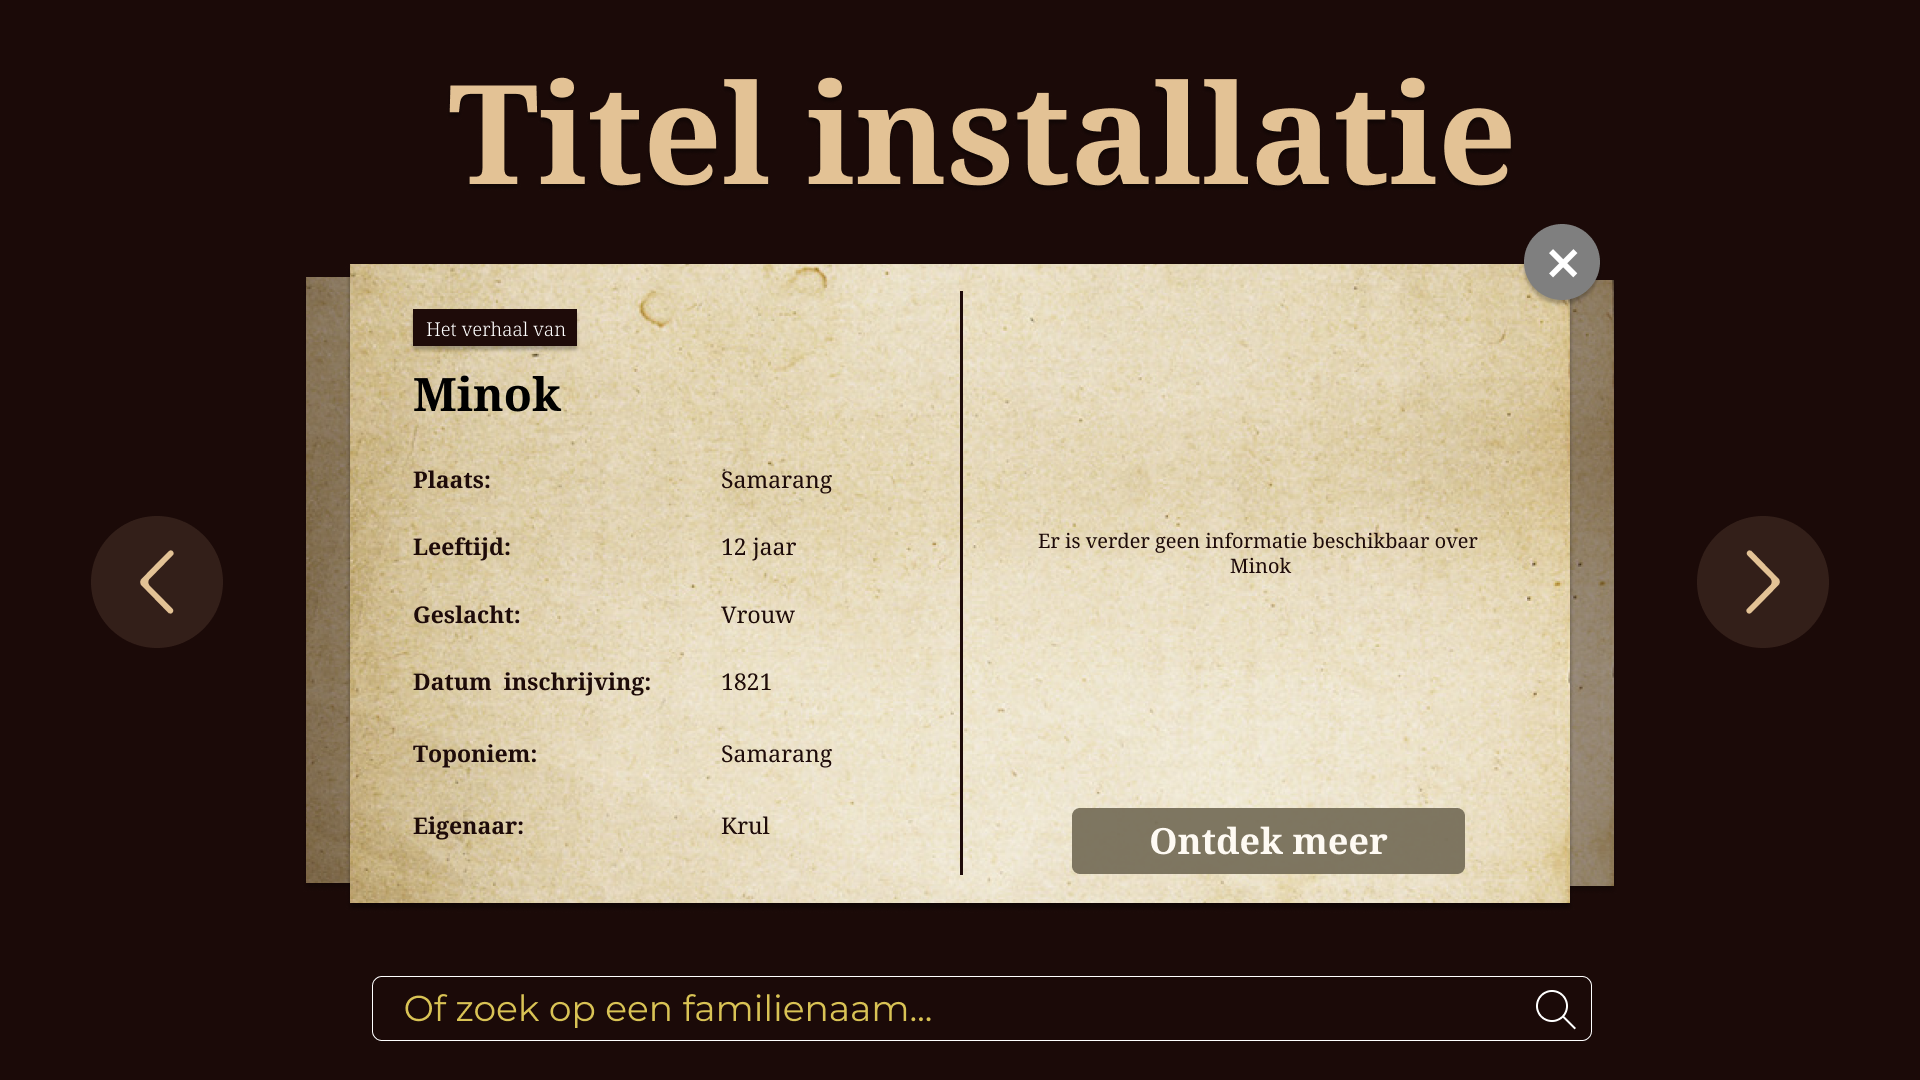
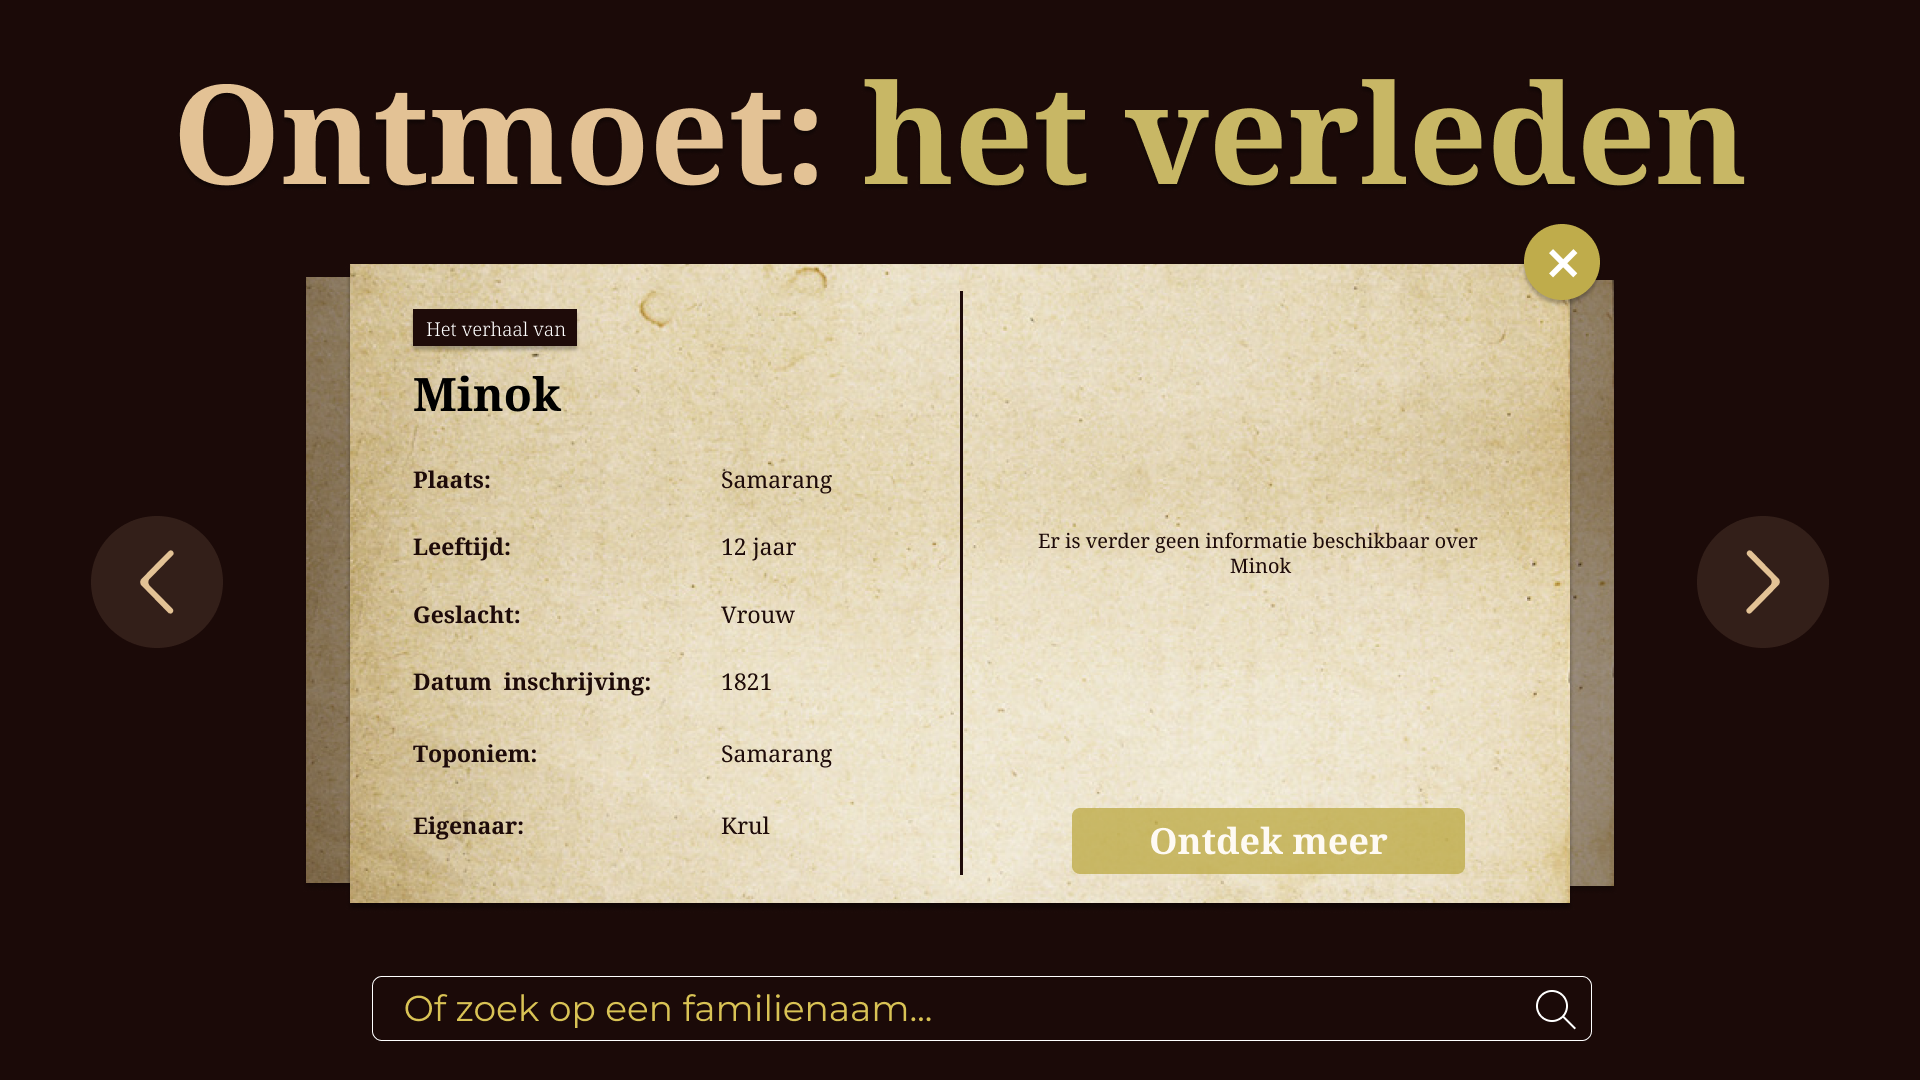
update text

Changed region(s): [[0.0938, 0.0611, 0.9062, 0.1833], [0.5312, 0.7333, 0.7812, 0.825], [0.7812, 0.2139, 0.8438, 0.275]]

diff --git a/components/home/homever2.jsx b/components/home/homever2.jsx
@@ -8,7 +8,7 @@ const Index2 = () => (
     {/* Titel en namen */}
     <div className="relative text-white h-128 w-full bg-contain bg-right bg-no-repeat bg-project-donker bg-bottom bg-[url('/topbannerstatic.png')]">
       <h1 className="uppercase text-tropen-rood bg-white p-2 left-14 bottom-28 absolute text-4xl text-center font-bold">
-        Namenmonument tropenmuseum
+        Ontmoet: het verleden
       </h1>
       <p className="text-white p-2 bg-tropen-rood left-14 bottom-14 absolute text-center font-medium">
         Lisa Roelvink - Aaron Smits - Bas de Roller
@@ -17,22 +17,42 @@ const Index2 = () => (
 
     {/* Intro project en uitleg */}
     <div className="w-full mt-4 flex">
-      <div className="w-6/12 p-14 bg-tropen-rood">
-        <h3 className="text-2xl text-white font-medium pb-5">
-          Introductie titel
-        </h3>
+      <div className="w-7/12 p-14 bg-tropen-rood">
+        <h3 className="text-2xl text-white font-medium pb-5">Het project</h3>
         <p className="text-white">
-          Lorem ipsum dolor sit amet, consectetur adipiscing elit, sed do
-          eiusmod tempor incididunt ut labore et dolore magna aliqua. Ut enim ad
-          minim veniam, quis nostrud exercitation ullamco laboris nisi ut
-          aliquip ex ea commodo consequat. Duis aute irure dolor in
-          reprehenderit in voluptate velit esse cillum dolore eu fugiat nulla
-          pariatur. Excepteur sint occaecat cupidatat non proident, sunt in
-          culpa qui officia deserunt mollit anim id est laborum.
+          Het tropenmuseum vindt het belangrijk dat bezoekers van het museum
+          meer ontdekken over diverse culturen van de wereld en de menselijke
+          kwaliteiten daarvan. Het tropen museum wil ook bezoekers een
+          openbaring geven over delen van onze geschiedenis en leven waar niet
+          vaak over wordt gepraat.
+          <br />
+          <br />
+          Een tentoonstelling die binnenkort gaat plaatsnemen bij het museum is
+          een over het slaven verleden van de VOC handel, specifiek gaat het
+          over alle mensen uit indonesie die tijdens deze periode tot slaaf zijn
+          gemaakt en wat voor effect dat had op hun geschiedenis.
+          <br />
+          <br />
+          Het tropenmuseum heeft aan ons gevraagd of wij een unieke interactieve
+          ervaring kunnen creeren waarin bezoekers de geschiedenis van deze
+          slaven kunnen bekijken en een openbaring krijgen over de impact die
+          dit had op andere mensen.
+          <br />
+          <br />
+          Voor dit project kregen wij als basis 2 databases over alle slaaf
+          gemaakte mensen waar informatie bekend van was, gecombineerd was dit
+          ongeveer 165,000, terwijl het aantal geschatten tot slaaf gemaakten
+          van de voc 1,5 miljoen was.
+          <br />
+          <br />
+          Dus met deze databases moesten wij erachter komen hoe wij hieruit een
+          interactieve ervaring maken waarbij de gebruiker meer te weten kan
+          komen over het verleden en verbinden met tot slaaf gemaakte mensen van
+          vroeger.
         </p>
       </div>
-      <div className="w-6/12 pl-4">
-        <div className="mr-auto bg-project-donker">
+      <div className="self-center w-5/12 pl-4">
+        <div className="mr-auto">
           <Image
             className="w-24 drop-shadow-md"
             src="/Banner.png"
@@ -40,6 +60,14 @@ const Index2 = () => (
             width="1920"
             height="1080"
           />
+          <div className="align-bottom flex mt-2">
+            <Image
+              src="/Banner2.png"
+              alt="Picture of the author"
+              width="1920"
+              height="1080"
+            />
+          </div>
         </div>
       </div>
     </div>
@@ -72,29 +100,43 @@ const Index2 = () => (
     {/* project uitleg */}
     <div className="w-full mt-4 flex">
       <div className="w-2/3 m-auto">
-        <h2 className="text-2xl font-medium pb-4">Eindproduct</h2>
-        <p>
-          {" "}
-          Lorem ipsum dolor sit amet, consectetur adipiscing elit, sed do
-          eiusmod tempor incididunt ut labore et dolore magna aliqua. Ut enim ad
-          minim veniam, quis nostrud exercitation ullamco laboris nisi ut
-          aliquip ex ea commodo consequat. Duis aute irure dolor in
-          reprehenderit in voluptate velit esse cillum dolore eu fugiat nulla
-          pariatur. Excepteur sint occaecat cupidatat non proident, sunt in
-          culpa qui officia deserunt mollit anim id est laborum.
-        </p>
+        <div className="w-4/5 m-auto">
+          <h2 className="text-2xl font-medium pb-4">De oplossing</h2>
+          <p>
+            Wat wij uiteindelijk hebben gemaakt is Ontmoet: het verleden, een
+            interactieve museums ervaring waarbij de gebruiker het slaven
+            verleden van de voc kan ontdekken via persoonlijke verhalen van
+            mensen die tot slaaf gemaakt waren.
+            <br /> <br />
+            Met Ontmoet: het verleden kan je de persoonlijke informatie van tot
+            slaaf gemaakte mensen bekijken en de complete schaal van de slaven
+            handel van de voc bekijken door in-en-uit te zoomen, filteren en de
+            persoonlijke geschiedenis van deze mensen te lezen
+          </p>
 
-        <h2 className="text-2xl font-medium pb-4 mt-4">Uitleg 1</h2>
-        <p>
-          {" "}
-          Lorem ipsum dolor sit amet, consectetur adipiscing elit, sed do
-          eiusmod tempor incididunt ut labore et dolore magna aliqua. Ut enim ad
-          minim veniam, quis nostrud exercitation ullamco laboris nisi ut
-          aliquip ex ea commodo consequat. Duis aute irure dolor in
-          reprehenderit in voluptate velit esse cillum dolore eu fugiat nulla
-          pariatur. Excepteur sint occaecat cupidatat non proident, sunt in
-          culpa qui officia deserunt mollit anim id est laborum.
-        </p>
+          <h2 className="text-2xl font-medium py-4">De flow</h2>
+          <p>
+            Ontmoet: het verleden is een
+            <br />
+            <br />
+            Eerst begin je met een willekeurige naam te krijgen, hierdoor wordt
+            je verbonden met een tot slaaf gemaakte.
+            <br />
+            <br />
+            Over deze persoon lees je dan de informatie die ove hun beschikbaar
+            is, zoals hoe oud ze waren, wanneer ze ingeschreven waren, hun
+            sterfdatum, waare ze vandaan komen en andere informatie die relevant
+            is, er wordt alleen zoveel informatie getoondt als dat er
+            beschikbaar is van de persoon zelf, als er informatie mist wordt dat
+            duidelijk getoondt.
+            <br />
+            <br />
+            Vanuit hier kan de gebruiker gebaseerd op deze persoon verder
+            exploreren op filters waarbij ze interessante informatie kunne
+            ontdekken, bijvoorbeeld hou oud mensen uit zekere landen waren,
+            welke beroepen ze hadden en op welke datum ze waren in geschreven.
+          </p>
+        </div>
       </div>
       <div className="pl-4 w-2/5">
         {/* links */}

diff --git a/components/home/designGoals.jsx b/components/home/designGoals.jsx
@@ -8,49 +8,95 @@ const Index = () => (
     {/* Titel en namen */}
     <div className="relative text-white h-128 w-full bg-contain bg-project-donker bg-right bg-no-repeat bg-bottom bg-[url('/ButtonbannerGoals.png')]">
       <h1 className="uppercase text-tropen-rood bg-white p-2 left-24 bottom-36 absolute text-6xl text-center font-bold">
-        Design goals
+        Design goals en vragen
       </h1>
     </div>
 
     {/* Uitleg schermen */}
     <div className="w-full flex">
-      <div className="w-4/5 m-auto">
+      <div className="w-4/5 m-auto my-8">
         {/* Stukje foto rechts */}
         <div className="w-2/3 m-auto pt-4">
-          <h2 className="text-2xl font-bold">• Doel 1</h2>
+          <h2 className="text-2xl font-bold">• Filteren</h2>
           <p className="mt-4">
             {" "}
-            Lorem ipsum dolor sit amet, consectetur adipiscing elit, sed do
-            eiusmod tempor incididunt ut labore et dolore magna aliqua. Ut enim
-            ad minim veniam, quis nostrud exercitation ullamco laboris nisi ut
-            aliquip ex ea commodo consequat. Duis aute irure dolor in
-            reprehenderit in voluptate velit esse cillum dolore eu fugiat nulla
-            pariatur. Excepteur sint occaecat cupidatat non proident, sunt in
-            culpa qui officia deserunt mollit anim id est laborum.
+            Omdat er zo veel data beschikbaar is moet er een manier zijn voor de
+            gebruiker om informatie op te zoeken die belangrijk is voor hun. Er
+            zijn vele kwaliteiten die aan elke persoon zijn gebonden die veel
+            informatie geven, daarom besloten wij dat deze informatie gebruikt
+            zou kunnen worden om te kunnen zoeken en filteren. Via het
+            filtersysteem kan de gebruiker op zekere kwaliteiten, zoals land van
+            herkomst, leeftijd, hun familie boom en andere filters sorteren.
           </p>
 
-          <h2 className="text-2xl font-bold pt-4">• Doel 2</h2>
+          <h2 className="text-2xl font-bold pt-4">• Van klein naar groot</h2>
           <p className="mt-4">
             {" "}
-            Lorem ipsum dolor sit amet, consectetur adipiscing elit, sed do
-            eiusmod tempor incididunt ut labore et dolore magna aliqua. Ut enim
-            ad minim veniam, quis nostrud exercitation ullamco laboris nisi ut
-            aliquip ex ea commodo consequat. Duis aute irure dolor in
-            reprehenderit in voluptate velit esse cillum dolore eu fugiat nulla
-            pariatur. Excepteur sint occaecat cupidatat non proident, sunt in
-            culpa qui officia deserunt mollit anim id est laborum.
+            Omdat er zo veel mensen in de tentoonstelling zijn moesten wij
+            erachter hoe wij een volledig beeld laten zien, niet alleen van de
+            mensen in de tentoonstelling maar alle mensen die tot slaaf gemaakt
+            waren. hierdoor bedachten wij eraan om elke persoon individueel af
+            te beelden met een simpele vorm, eerst dachten wij pixels maar
+            uiteindlijk zijn het abstracte iconen van mensen, om duidelijk te
+            maken dat het nog om mensen gaat.
+            <br />
+            <br />
+            De gebruiker kan in en uit zoomen, gedetaileerd bekijken hoe
+            iedereen heet of uitzoomen om een groot beeld te krijgen.
+            <br />
+            <br />
+            Als je steeds verder en verder uitzoomt worden uiteindelijk alle
+            indivuele mensen bij elkaar toegevoegd als een groep, deze groep
+            wordt dan vergeleken met de mensen in de database en dan vergeleken
+            met het totaal aantal mensen dat tot slaaf gemaakt was.
+            <br />
+            <br />
+            Bezoekers kunnen nu niet alleen persoonlijke verhalen bekijken van
+            andere maar e kunnen nu ook de complete schaal zien van geschiedenis
+            die niet meer bestaat.
           </p>
 
-          <h2 className="text-2xl font-bold pt-4">• Doel 3</h2>
+          <h2 className="text-2xl font-bold pt-4">• Persoonlijke verhalen</h2>
           <p className="mt-4">
-            {" "}
-            Lorem ipsum dolor sit amet, consectetur adipiscing elit, sed do
-            eiusmod tempor incididunt ut labore et dolore magna aliqua. Ut enim
-            ad minim veniam, quis nostrud exercitation ullamco laboris nisi ut
-            aliquip ex ea commodo consequat. Duis aute irure dolor in
-            reprehenderit in voluptate velit esse cillum dolore eu fugiat nulla
-            pariatur. Excepteur sint occaecat cupidatat non proident, sunt in
-            culpa qui officia deserunt mollit anim id est laborum.
+            In de database zitten enorm veel mensen, en als je te ver weg kijkt
+            dan lijken al deze mensen op data. Wij vonden het belangrijk dat de
+            gebruiker begrijpt dat dit niet alleen stukken data zijn maar echte
+            mensen die een geschiedenis hadden, daarom kan je van elke persoon
+            die in de tentoonstelling zit kort lezen wie ze waren en een kort
+            verhaal (als dat verhaal beshcikbaar is.) Alhoewel er niet van elke
+            persoon veel informatie beschikbaar is was het toch belangrijk voor
+            ons om te laten zien dat elke persoon wel een geschiedenis had.
+          </p>
+
+          <h2 className="text-2xl font-bold pt-4">
+            • Hoe zet je iedereen in beeld?
+          </h2>
+          <p className="mt-4">
+            Omdat de databases die wij gebruiken heel veel mensen bevatten en
+            wij zoveel mogelijk van hun willen afbeelden moesten wij een manier
+            bedenken hoe zoveel stukken informatie kunnen laten zien terwijl wij
+            nog steeds het geheel laten zien. Wij dachten dus eraan om beeld te
+            creeren dat de gebruiker 'bijna' alles kan zien, bijvoorbeeld door
+            elke individuele persoon af te beelden als 1 object, dit zou kunnen
+            als een vorm, abstracte tekening of als een pixel. Deze manier van
+            afbeelden werkt niet alleen om specifieke mensen te laten zien maar
+            ook het complete beeld van wat voor effect de slaven handel had op
+            de geschidenis van zoveel mensen.
+          </p>
+
+          <h2 className="text-2xl font-bold pt-4">
+            • Hoe geef je de emotionele impact?
+          </h2>
+          <p className="mt-4">
+            In het begin was dit al een onderdeel waar wij een oplossing voor
+            wouden bedenken, wij zijn vooral bezig met data maar achter die data
+            zit echte mensen. Alhoewel van sommige tot slaaf gemaakten er een
+            echt verhaal, is dit een heel kleine groep, terwijl wij willen dat
+            de bezoeker met elke tot slaaf gemaakte sympathie kan krijgen.
+            Daarom besloten wij ons te richten op de missende data. Het aantaal
+            slaaf gemaakte mensen bij onze databases is 165,000, maar het totaal
+            aantal tot slaaf gemaakte mensen is 1,5 miljoen. Als dit visueel
+            vergeleken wordt met elkaar kan dit een zeer grote impact hebben.
           </p>
         </div>
       </div>

diff --git a/components/home/style.jsx b/components/home/style.jsx
@@ -13,23 +13,66 @@ const Index = () => (
     </div>
 
     {/* Uitleg style */}
-    <div className="w-full">
+    <div className="w-full my-8">
       {/* kleuren */}
       <div className="w-full flex">
-        <div className="uppercase w-1/5 pb-16/100 mr-2 my-4 bg-project-donker">
+        <div className="font-bold uppercase w-1/5 pb-16/100 mr-2 my-4 bg-project-donker">
           <p className="text-white text-center">#1B0A08</p>
         </div>
-        <div className="uppercase w-1/5 pb-16/100 mx-2 my-4 bg-project-secondary">
-          <p>#F2EFE7</p>
+        <div className="font-bold uppercase w-1/5 pb-16/100 mx-2 my-4 bg-project-secondary">
+          <p className="text-center">#FEFAF3</p>
         </div>
-        <div className="uppercase w-1/5 pb-16/100 mx-2 my-4 bg-project-button">
-          <p>#978C58</p>
+        <div className="font-bold uppercase w-1/5 pb-16/100 mx-2 my-4 bg-project-button">
+          <p className="text-center">#BFAC4B</p>
         </div>
-        <div className="uppercase w-1/5 pb-16/100 mx-2 my-4 bg-project-button2">
-          <p>#331F19</p>
+        <div className="font-bold uppercase w-1/5 pb-16/100 mx-2 my-4 bg-project-button2">
+          <p className="text-white text-center">#331F19</p>
         </div>
-        <div className="uppercase w-1/5 pb-16/100 ml-2 my-4 bg-project-button3">
-          <p>#736B56</p>
+        <div className="font-bold uppercase w-1/5 pb-16/100 ml-2 my-4 bg-project-button3">
+          <p className="text-white text-center">#706C68</p>
+        </div>
+      </div>
+      <div className="w-4/5 m-auto my-8">
+        <div>
+          <div className="font-Koh text-6xl pb-4 font-bold flex w-full">
+            <p className="w-2/12">H1</p>
+            <p className="w-8/12">Koh Santepheap bold</p>
+            <p className="w-2/12">120px</p>
+          </div>
+        </div>
+        <div>
+          <div className="font-Koh text-h2 pb-4 font-bold flex w-full">
+            <p className="w-2/12">H2</p>
+            <p className="w-8/12">Koh Santepheap bold</p>
+            <p className="w-2/12">42px</p>
+          </div>
+        </div>
+        <div>
+          <div className="font-Koh text-4xl pb-4 flex w-full">
+            <p className="w-2/12">P</p>
+            <p className="w-8/12">Koh Santepheap regular</p>
+            <p className="w-2/12">36px</p>
+          </div>
+        </div>
+        <div>
+          <div className="font-Koh text-p pb-4 flex w-full">
+            <p className="w-2/12">P</p>
+            <p className="w-8/12">
+              Koh Santepheap regular/<b>bold</b>
+            </p>
+            <p className="w-2/12">22px</p>
+          </div>
+        </div>
+        <div>
+          <div className="font-Koh text-p pb-4 font-bold flex w-full">
+            <p className="w-2/12">Button</p>
+            <p className="w-8/12 text-white">
+              <span className="px-4 py-1 bg-project-button rounded-lg">
+                Koh Santepheap bold
+              </span>
+            </p>
+            <p className="w-2/12">36px</p>
+          </div>
         </div>
       </div>
     </div>

diff --git a/tailwind.config.js b/tailwind.config.js
@@ -4,6 +4,25 @@ module.exports = {
     "./components/**/*.{js,ts,jsx,tsx}",
   ],
   theme: {
+    fontSize: {
+      xs: ".75rem",
+      sm: ".875rem",
+      tiny: ".875rem",
+      base: "1rem",
+      lg: "1.125rem",
+      xl: "1.25rem",
+      "2xl": "1.5rem",
+      "3xl": "1.875rem",
+      "4xl": "2.25rem",
+      "5xl": "3rem",
+      "6xl": "4rem",
+      "7xl": "5rem",
+      h2: "2.625rem",
+      p: "1.375rem",
+    },
+    fontFamily: {
+      Koh: ["Koh Santepheap", "cursive"],
+    },
     extend: {
       spacing: {
         128: "32rem",
@@ -16,10 +35,10 @@ module.exports = {
         "dark-blue": "#081826",
         "tropen-rood": "#ea4e55",
         "project-donker": "#1B0A08",
-        "project-secondary": "#F2EFE7",
-        "project-button": "#978C58",
+        "project-secondary": "#FEFAF3",
+        "project-button": "#BFAC4B",
         "project-button2": "#331F19",
-        "project-button3": "#736B56",
+        "project-button3": "#706C68",
       },
     },
   },

diff --git a/components/main/nav.jsx b/components/main/nav.jsx
@@ -1,5 +1,6 @@
 import Image from "next/image";
 import Link from "next/link";
+import Head from "next/head";
 
 const Header = () => (
   <div className="h-1 w-full z-100 absolute inset-0 z-50">

diff --git a/styles/globals.css b/styles/globals.css
@@ -1,3 +1,5 @@
+@import url("https://fonts.googleapis.com/css2?family=Koh+Santepheap:wght@400;700&display=swap");
+
 @tailwind base;
 @tailwind components;
 @tailwind utilities;
